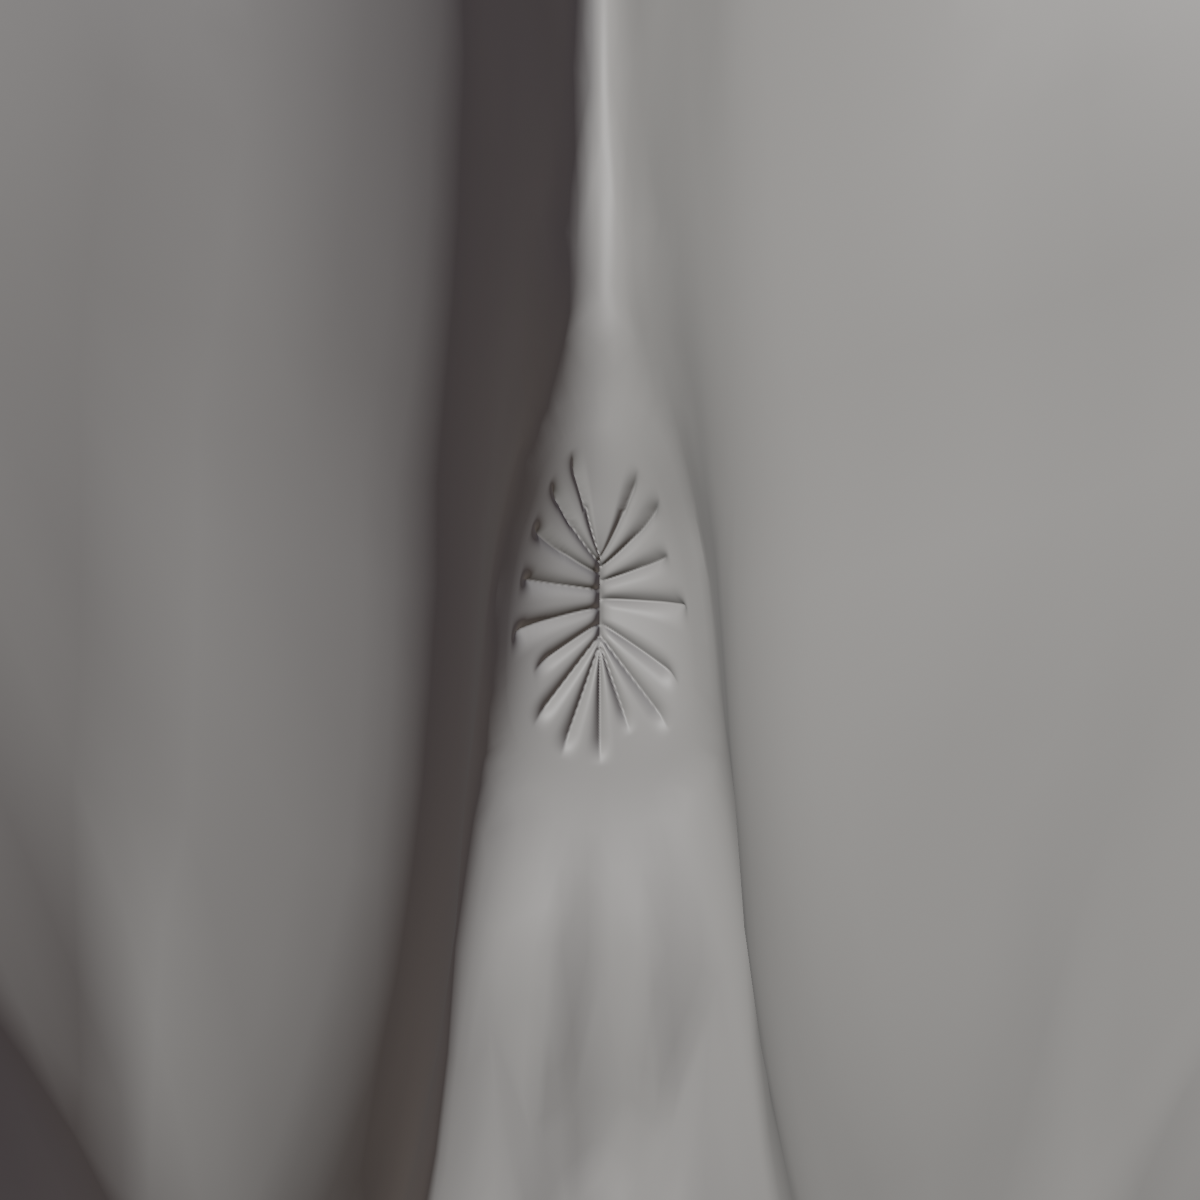
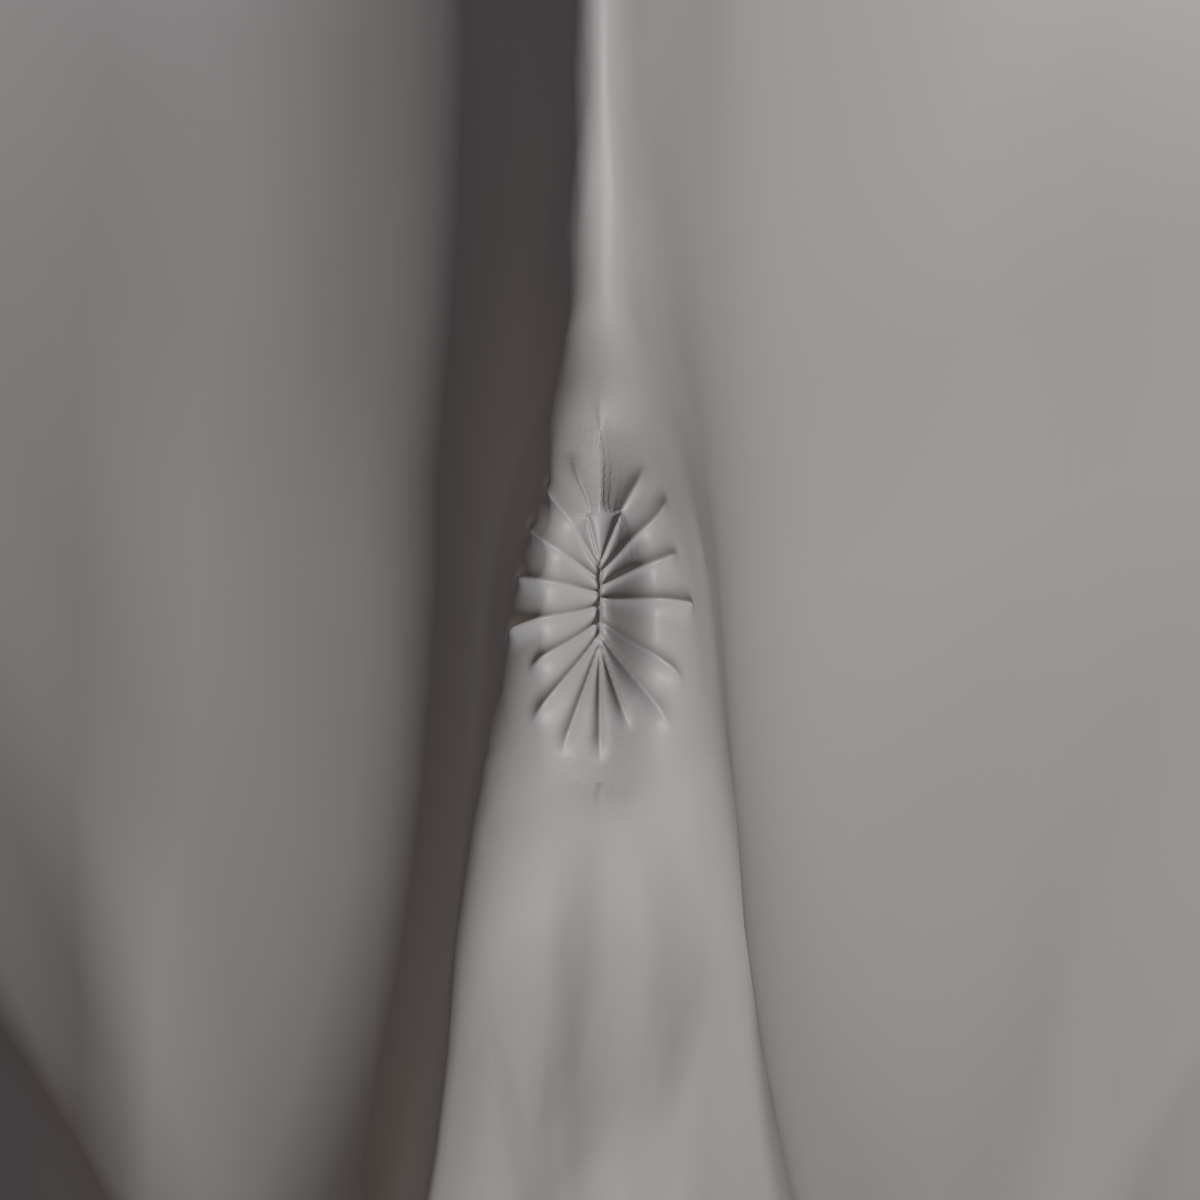
v4: rise towards the slit, level centre, rounder groove bottoms
- surface climbs gently over the last ~2.8 mm and peaks at the slit's lips
  (0.7 mm), then drops into the narrow V
- shaped lift brought back, limited to 2.5 mm either side of the midline
- two light smoothing passes on the creases (only ~0.1 mm on the fine mesh)

Claude-Session: https://claude.ai/code/session_01GkHsFACxGEb36mHX3TdUWk

Changed region(s): [[0.4317, 0.37, 0.5858, 0.6167]]

diff --git a/scripts/build8_v4.py b/scripts/build8_v4.py
@@ -560,12 +560,12 @@ for v, (r, th) in info.items():
 # Profile across the slit (from your sketch): the skin rises gently towards the slit, peaks right at its lips, then
 # drops into a narrow V - no wide valley. The rise goes straight out of the cleft (along n): on the steep cheek walls
 # the surface normal points sideways and would pinch the pucker.
-PUFF = 0.5                       # mm, height of the rise at the slit's lips
+PUFF = 0.7                       # mm, height of the rise at the slit's lips
 SLIT_V = 0.7                     # mm, depth of the V below the lips
 LIP_ROLL = 0.9                   # mm the lips curl down into the open fissure
 relief_of = {}; puff_of = {}
 for v, (r, th) in info.items():
-    puff_of[v] = n * (PUFF / 1000 * (1 - ss(RINGS[0] + 0.8, RINGS[-1] - 0.4, max(r, RINGS[0]))))
+    puff_of[v] = n * (PUFF / 1000 * (1 - ss(RINGS[0], RINGS[0] + 2.8, max(r, RINGS[0]))))   # gentle climb over the last ~2.8 mm, peak at the lips
     if v in slit_verts:
         sw = math.sin(th)
         relief = -SLIT_V * sw ** 0.6
